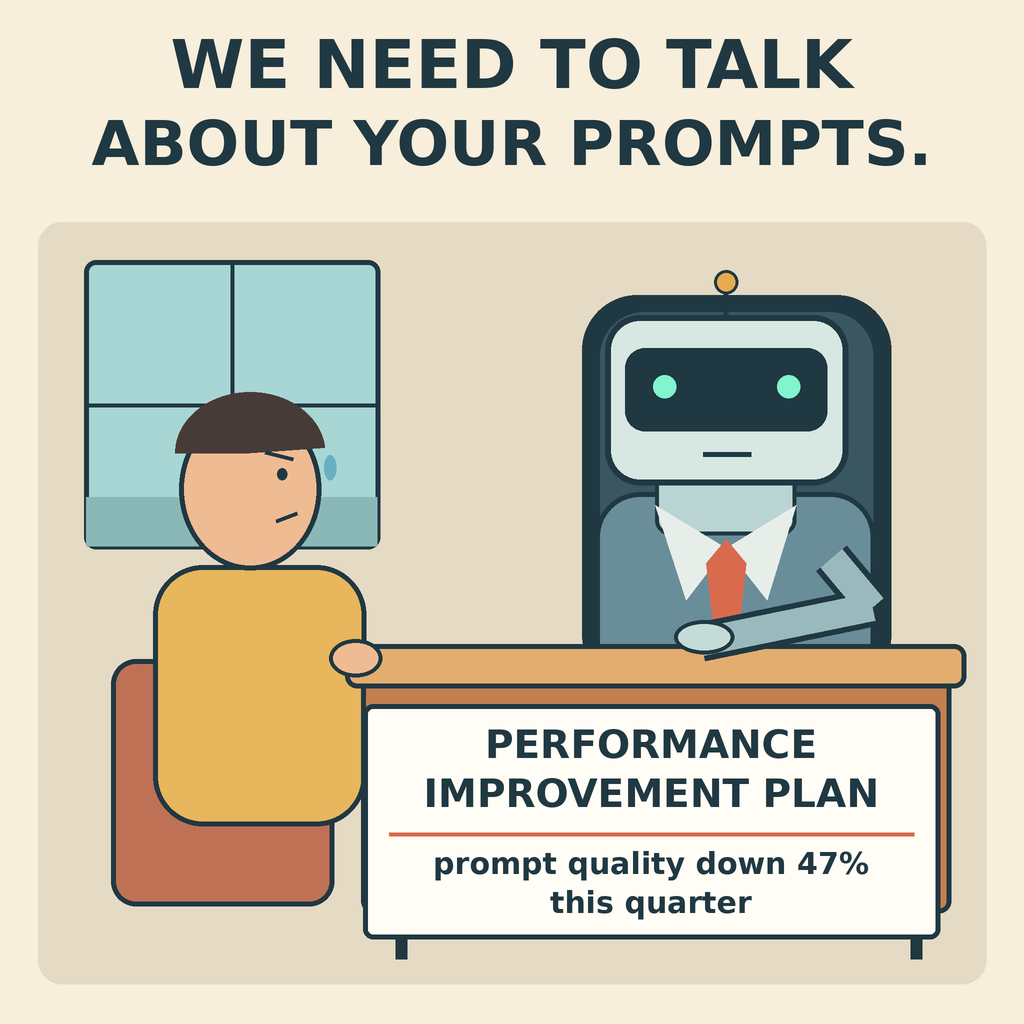
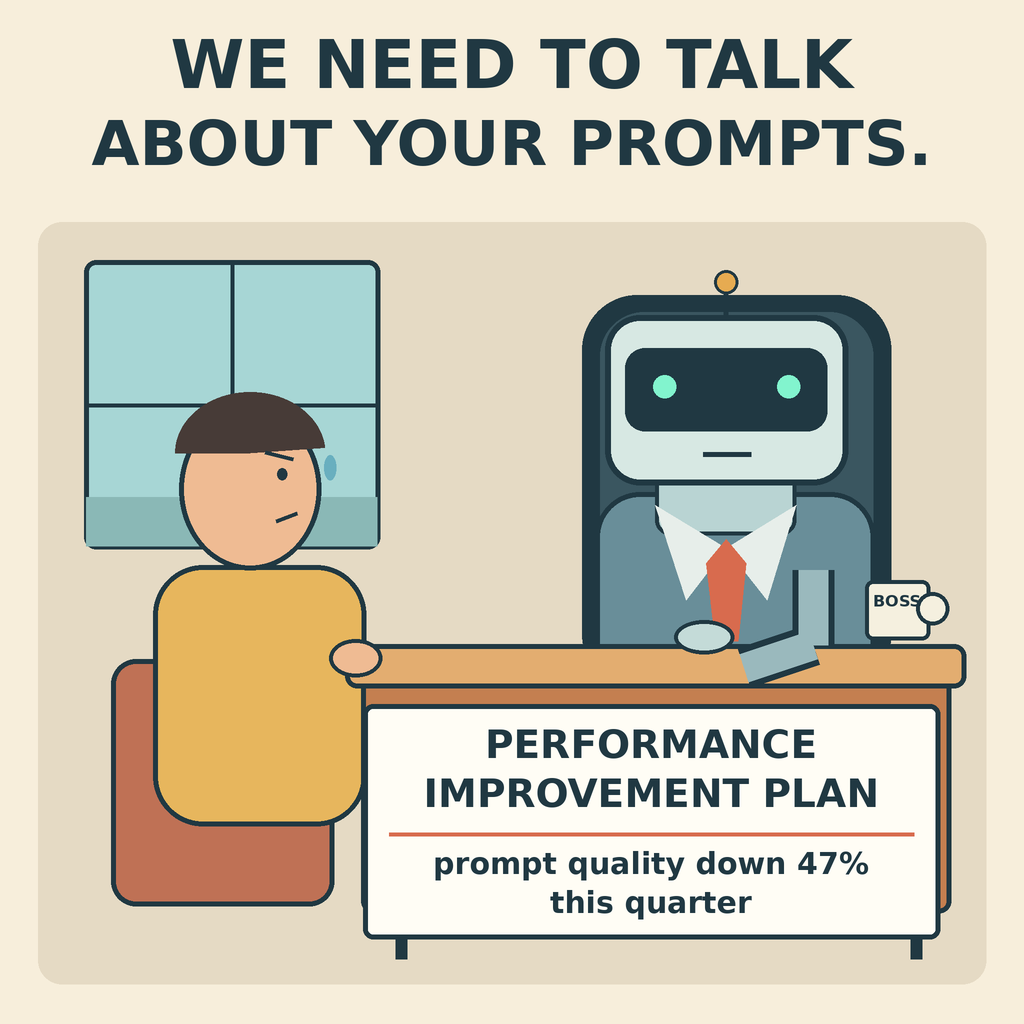
Improve robot arm + BOSS mug, verify determinism

Changed region(s): [[0.6875, 0.5312, 0.9375, 0.6875]]

diff --git a/render.py b/render.py
@@ -48,9 +48,13 @@ ellipse((324,455,336,480),'#69afbf')
 box((361,663,951,913),'#c47f50','#203842',5,12)
 box((345,644,966,688),'#e3ad70','#203842',5,12)
 line([(401,913),(401,959)],w=12);line([(916,913),(916,959)],w=12)
-# arm sliding review toward employee
-line([(831,558),(872,607),(701,642)],'#203842',40)
-line([(831,558),(872,607),(701,642)],'#9ab9bd',29)
+# clean straight robot arm resting on the desk
+line([(813,570),(813,645),(744,668)],'#203842',42)
+line([(813,570),(813,645),(744,668)],'#9ab9bd',30)
+# small manager coffee mug
+box((865,580,930,640),'#f5f0df','#203842',4,8)
+ellipse((916,592,949,625),'#f5f0df','#203842',4)
+text('BOSS',(897,595),16,center=True)
 # document shown frontward, oversized for instant reading
 box((363,704,940,939),'#fffdf5','#203842',5,10)
 text('PERFORMANCE',(651,729),39,center=True)
